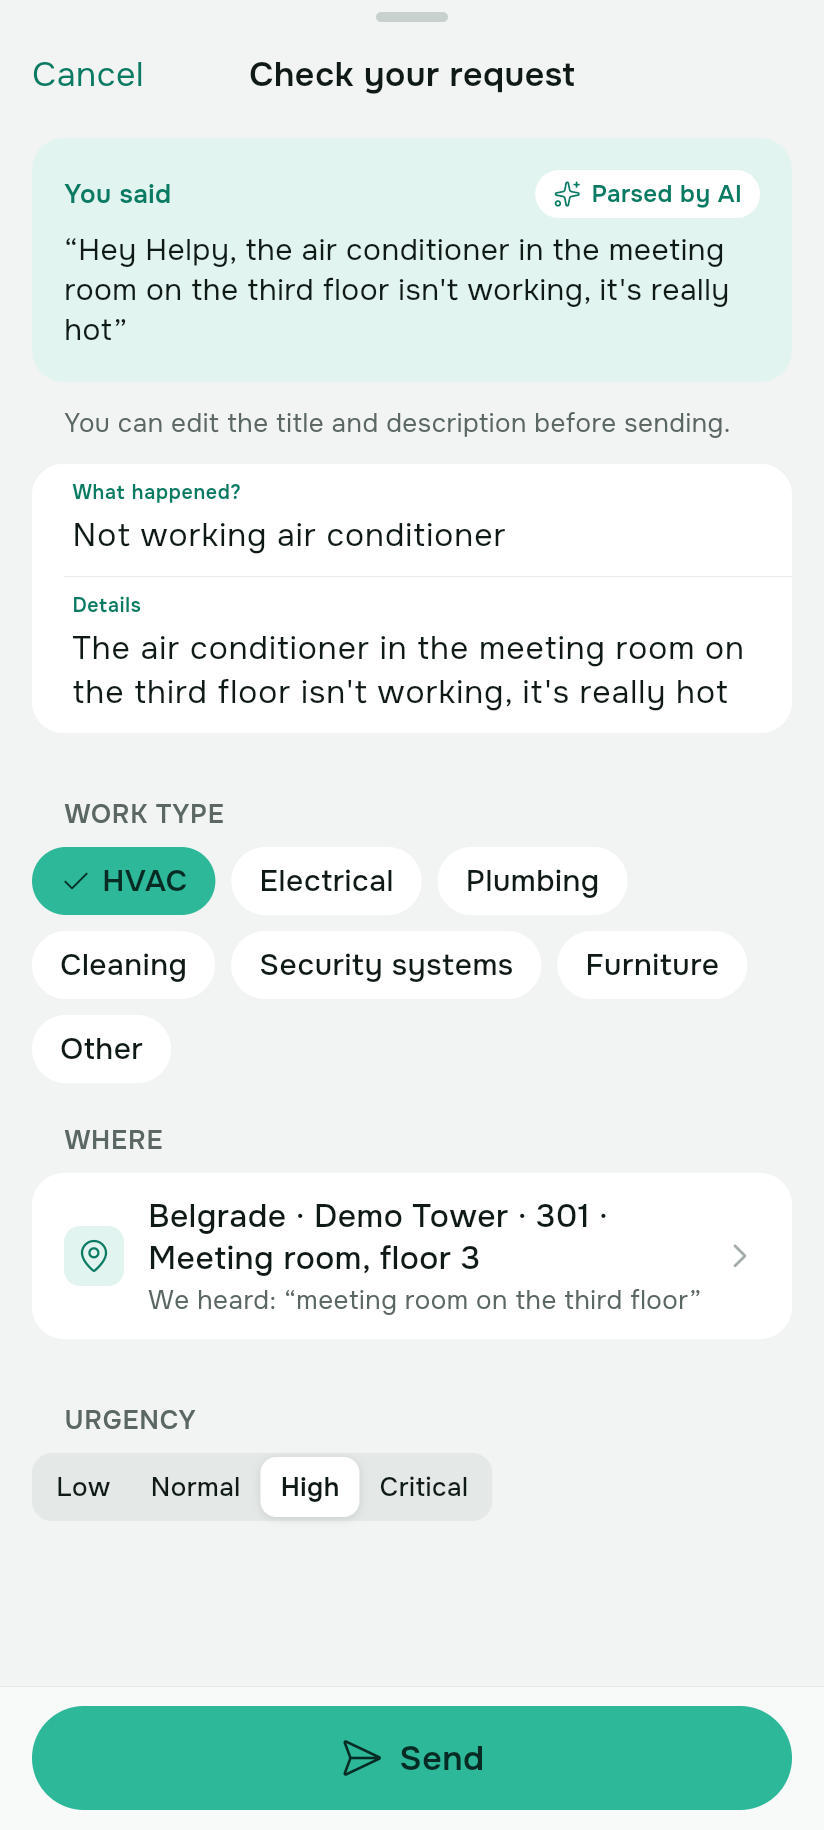
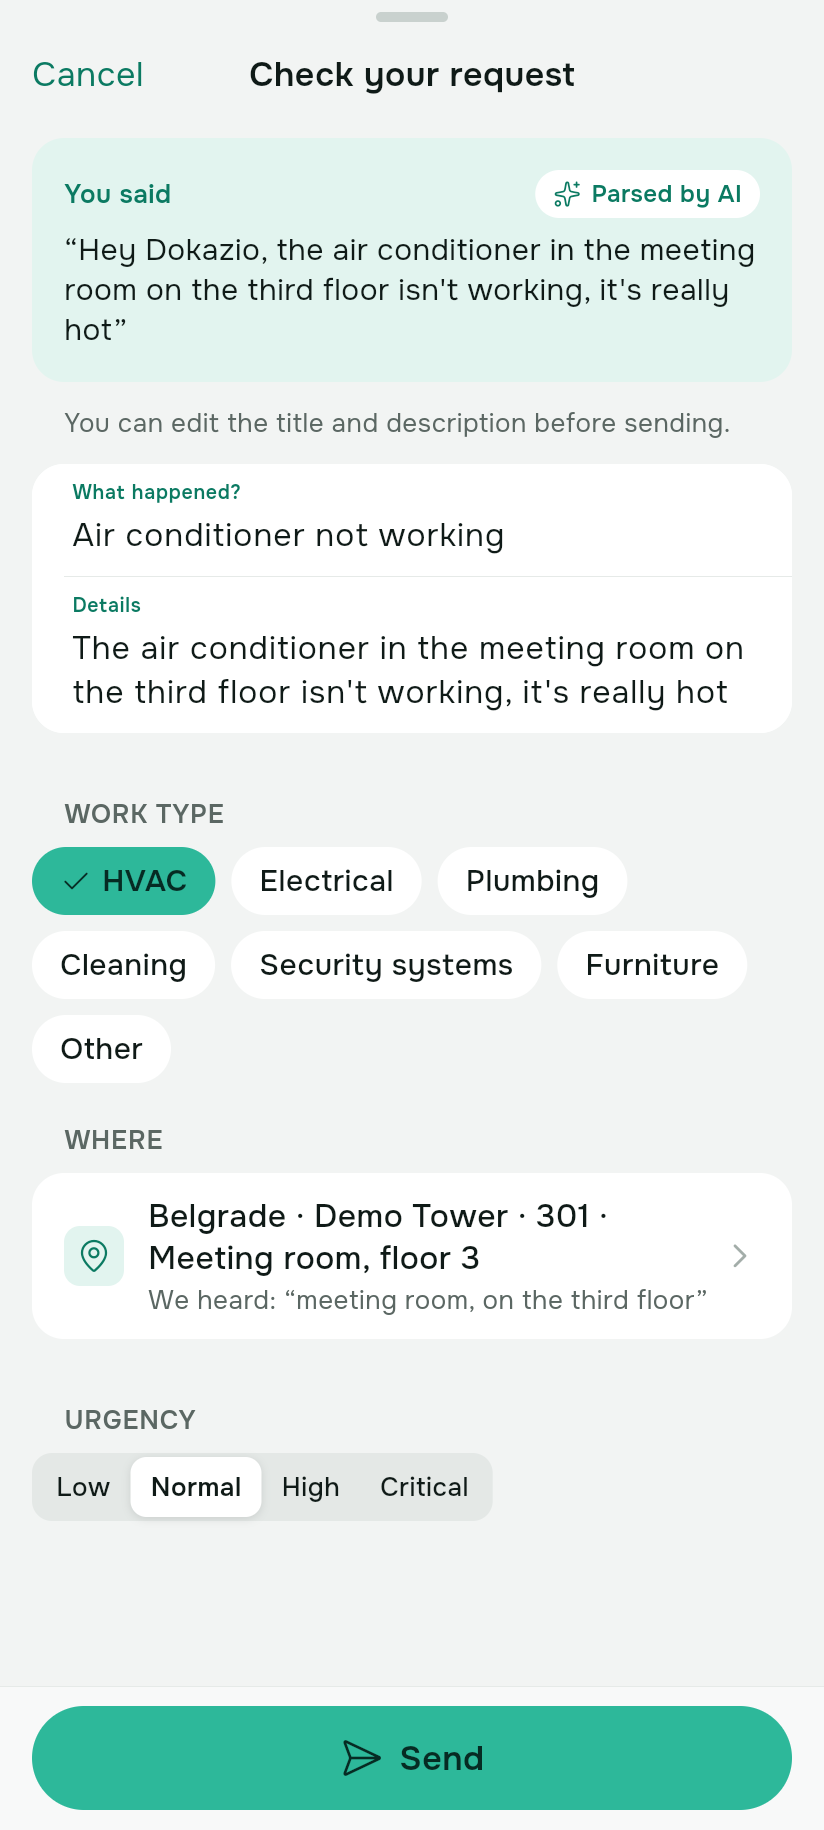
Шаг 36 (блок 5): кадры питча с именем Dokazio (локальная база), 08–09 — карта, не пересняты
Claude-Session: https://claude.ai/code/session_01RVcseMiBzvnmkDfC7tVAEd

diff --git a/docs/screens/pitch/README.md b/docs/screens/pitch/README.md
@@ -42,6 +42,8 @@
 
 ## Что переснять и почему
 
+**Шаг 36 (имя Dokazio, 12.11.2026):** переснято на **локальной базе** (`screens.mjs --local --pitch`, ответ ИИ — заглушка) — 01–07, 10–21, 23–28 (19 — `local_pitch.mjs`, 22 и 28 — макеты, 25–27 — сценарий 17 на английском). ⚠ **08 и 09 (карта) не пересняты**: из контейнера Claude Code сервер плиток карты недоступен — на них ещё старое имя в меню слева. Переснять на рабочей базе после Refresh demo: `cd tools/screens && node screens.mjs --pitch --only=08,09` (нужны `.env.demo` и `env.json` с `MAP_TILE_KEY`). Кадр 04 на рабочей базе разбирает настоящий ИИ — при пересъёмке на рабочей базе пересними и его.
+
 - **18, 21** — пересняты 15.10 (шаг 28) на **рабочей базе** после 0023 / 0024 и выкладки функций: `node screens.mjs --pitch --only=18,21`. Проверено глазами: в 18 нет подписи «В кадре не видно оборудования» — результат «Air conditioner, внутренний блок · Климат · 91 %» и «Скорее всего — Air conditioner AC-301»; в 21 — заявка «Water dripping from the AC» (назначена), «Плановое ТО до 31 окт.», «Последняя работа 5 окт. · ClimaService». Камера и ответ ИИ в Playwright — заглушки (живой камеры нет).
 - **28** — HTML-макет (`tools/screens/tg_assign_mock.mjs`), тексты — из `supabase/functions/telegram-bot/texts.ts` (шаг 28: `assignNew`, `bTake`, `takeOk`).
 - **29** — только с телефона владельца (VPS-APK, запись экрана); в Playwright нет ни ARCore, ни камеры.
